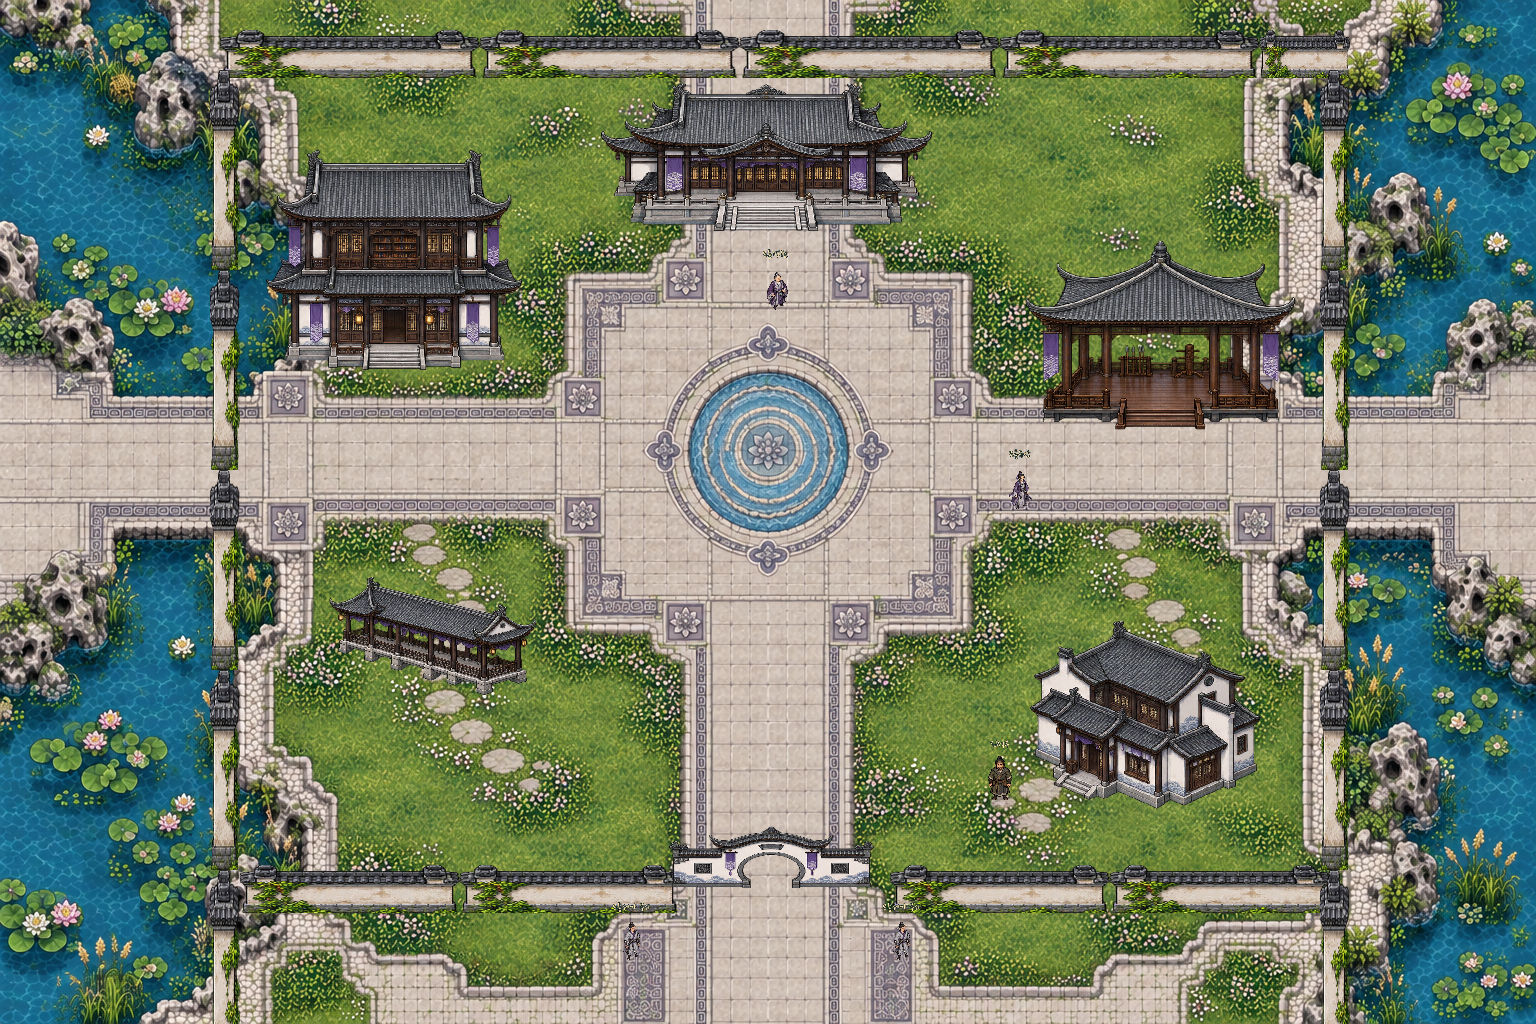
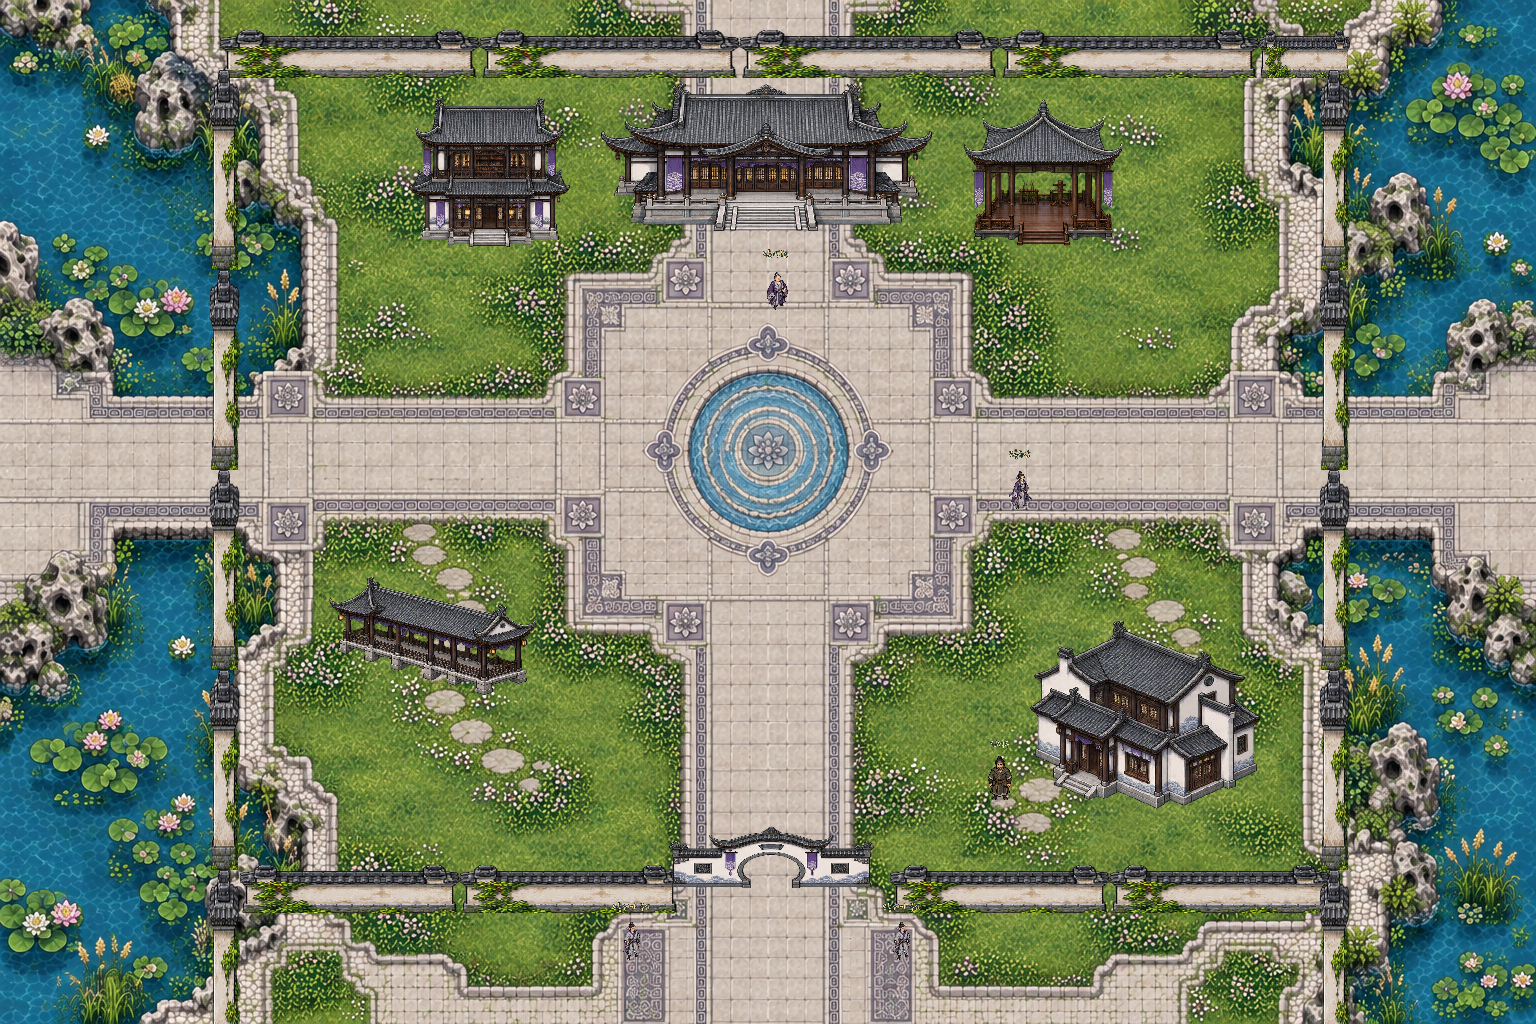
Align Murong north wings symmetrically and clear courtyard paths

Changed region(s): [[0.625, 0.0938, 0.8438, 0.4375], [0.1562, 0.0938, 0.375, 0.375]]

diff --git a/docs/CLI_HANDOFF.md b/docs/CLI_HANDOFF.md
@@ -4,7 +4,7 @@
 
 ## 모용세가 교류 의뢰
 
-[태호 장원](cities/murong-estate.md)과 [「백 가지 초식, 한 사람의 길」 적용 대본](quests/murong-exchange.md)을 구현했다. 소주 병장기 의뢰 완료 후 백정수에게 선택 수락→소주 북쪽 F 포탈→유안 대련→낭인 진석우의 생계→2분기 검증 대련→복기→경원 보고500문/모용 호의도10. 모두 비살상/승패 무관 진행이며 배신 암시·문파 비전 전수는 없다. 기존 세가 초상화+가주/소가주 고유 도트, 일반 무사 새 초상화/도트, 낭인은 기본 풀 재사용. 새 의뢰는 suzhou_quests의 별도 하위 컨트롤러와 저장을 사용하며 기존5종과 동시 진행한다. 새 장원 이동·TAB·미니맵·수동 저장 지원. 연무석 테두리까지 건물이 덮지 않도록 바닥 연무석을 축소하고, 회랑/객방을 서남/동남 녹지로 옮겼다. 진석우는 객방 서쪽 앞이며 세계 크기/포탈은 유지한다.
+[태호 장원](cities/murong-estate.md)과 [「백 가지 초식, 한 사람의 길」 적용 대본](quests/murong-exchange.md)을 구현했다. 소주 병장기 의뢰 완료 후 백정수에게 선택 수락→소주 북쪽 F 포탈→유안 대련→낭인 진석우의 생계→2분기 검증 대련→복기→경원 보고500문/모용 호의도10. 모두 비살상/승패 무관 진행이며 배신 암시·문파 비전 전수는 없다. 기존 세가 초상화+가주/소가주 고유 도트, 일반 무사 새 초상화/도트, 낭인은 기본 풀 재사용. 새 의뢰는 suzhou_quests의 별도 하위 컨트롤러와 저장을 사용하며 기존5종과 동시 진행한다. 새 장원 이동·TAB·미니맵·수동 저장 지원. 연무석 테두리까지 건물이 덮지 않도록 바닥 연무석을 축소하고, 회랑/객방을 서남/동남 녹지로 옮겼다. 진석우는 객방 서쪽 앞이며 세계 크기/포탈은 유지한다. 상단 두 동은 녹지 중심에서 같은 Y80/표시170×170, 중심X490/1046으로 대칭 배치했고 주 횡단로 표시 보호 구역을 확보했다.
 
 ## 능력치 상한 변경
 

diff --git a/docs/cities/murong-estate.md b/docs/cities/murong-estate.md
@@ -18,3 +18,5 @@
 [전체 맵](../../godot/screenshots/murong-estate-full.png) · [탐험](../../godot/screenshots/murong-estate-play.png) · [대화](../../godot/screenshots/murong-livelihood-dialogue.png)
 
 배치 수정: 연무석을 축소하고 주변 녹지를 넓혔다. 본당을 북쪽으로 정리하고 회랑은 서남 녹지, 객방은 동남 녹지에 배치했다. 진석우는 객방 서쪽 앞에 옮겼다. 건물·담장·문 충돌/Y정렬은 유지하며 맵 크기와 포탈 좌표는 같다. 기존 탐험 저장 위치가 새 건물과 겹치면 공통 안전 위치 복원으로 보정한다.
+
+상단 장서각/연무정은 동일한 표시 크기170×170·Y80(발밑 기준250)으로 맞추고 중심X490/1046을 장원 축X768에 대칭 배치했다. 주 횡단 보행로 보호 구역 `[240,390,1080,130]`에 지붕/계단을 포함한 건물 표시 영역이 겹치지 않게 유지한다.
